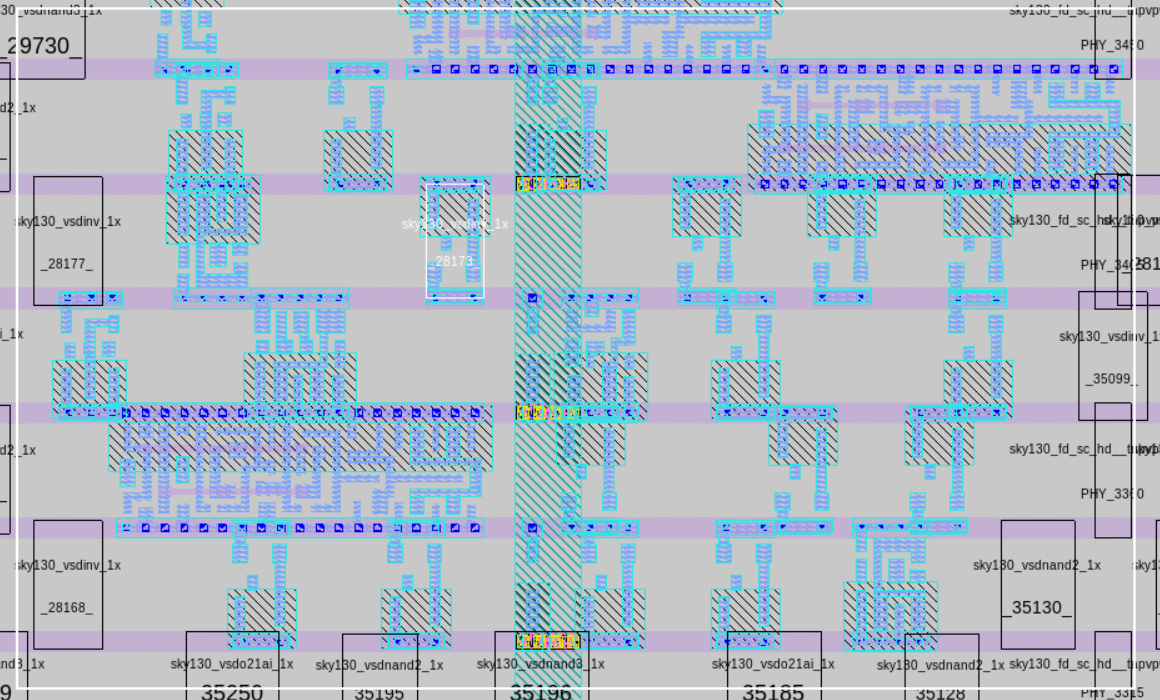
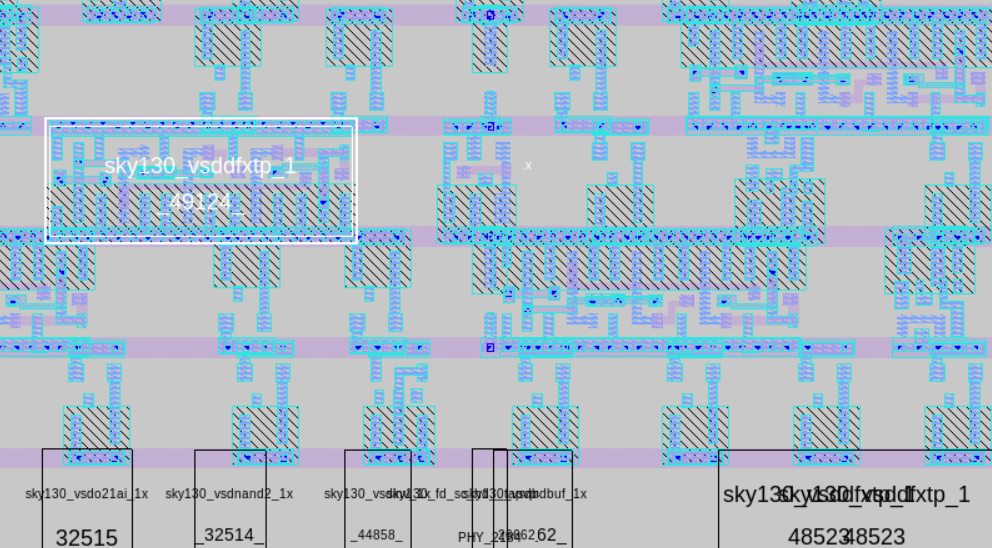
updated rm and images

diff --git a/README.md b/README.md
@@ -119,9 +119,9 @@ Calculate the Fall time, Rise time, Fall Transition and Rise Transition.
 * Install OpenLane as mentioned in repo [OpenLANE Built Script](https://github.com/nickson-jose/openlane_build_script)
 * [OpenLane Workshop repo for understanding openLane flow](https://github.com/harshsrigh/openlane_sky130nm_vsdworkshop)
 ### Custom Cells and Skywater 130nm Cells:
-All of the custom cells used are combination cell(as shown below) and Sequential cell like D Flip-Flop is taken from Skywater 130nm Library for now.
-  * **Skywater Library cells**: sky130_fd_sc_hd__dfxtp_4,  sky130_fd_sc_hd__buf_2, and sky130_fd_sc_hd__conb_1.
-  * **Custom cells**: sky130_vsdbuf_1x, sky130_vsdbuf_2x, sky130_vsdclkbuf_4x, sky130_vsdinv_1x, sky130_vsdinv_8x, sky130_vsdnand2_1x, sky130_vsdnand3_1x, sky130_vsdnand4_1x and sky130_vsdo21ai_1x.     
+
+  * **Skywater Library cells**: sky130_fd_sc_hd__buf_2, and sky130_fd_sc_hd__conb_1.
+  * **Custom cells**: sky130_vsdbuf_1x, sky130_vsdbuf_2x, sky130_vsdclkbuf_4x, sky130_vsdinv_1x, sky130_vsdinv_8x, sky130_vsdnand2_1x, sky130_vsdnand3_1x, sky130_vsdnand4_1x, sky130_vsdo21ai_1x and sky130_vsddfxtp_1.     
 * **Liberty File**: [sky_mod1.lib](sta_results/sky_mod1.lib)    
 
 ### Synthesis
